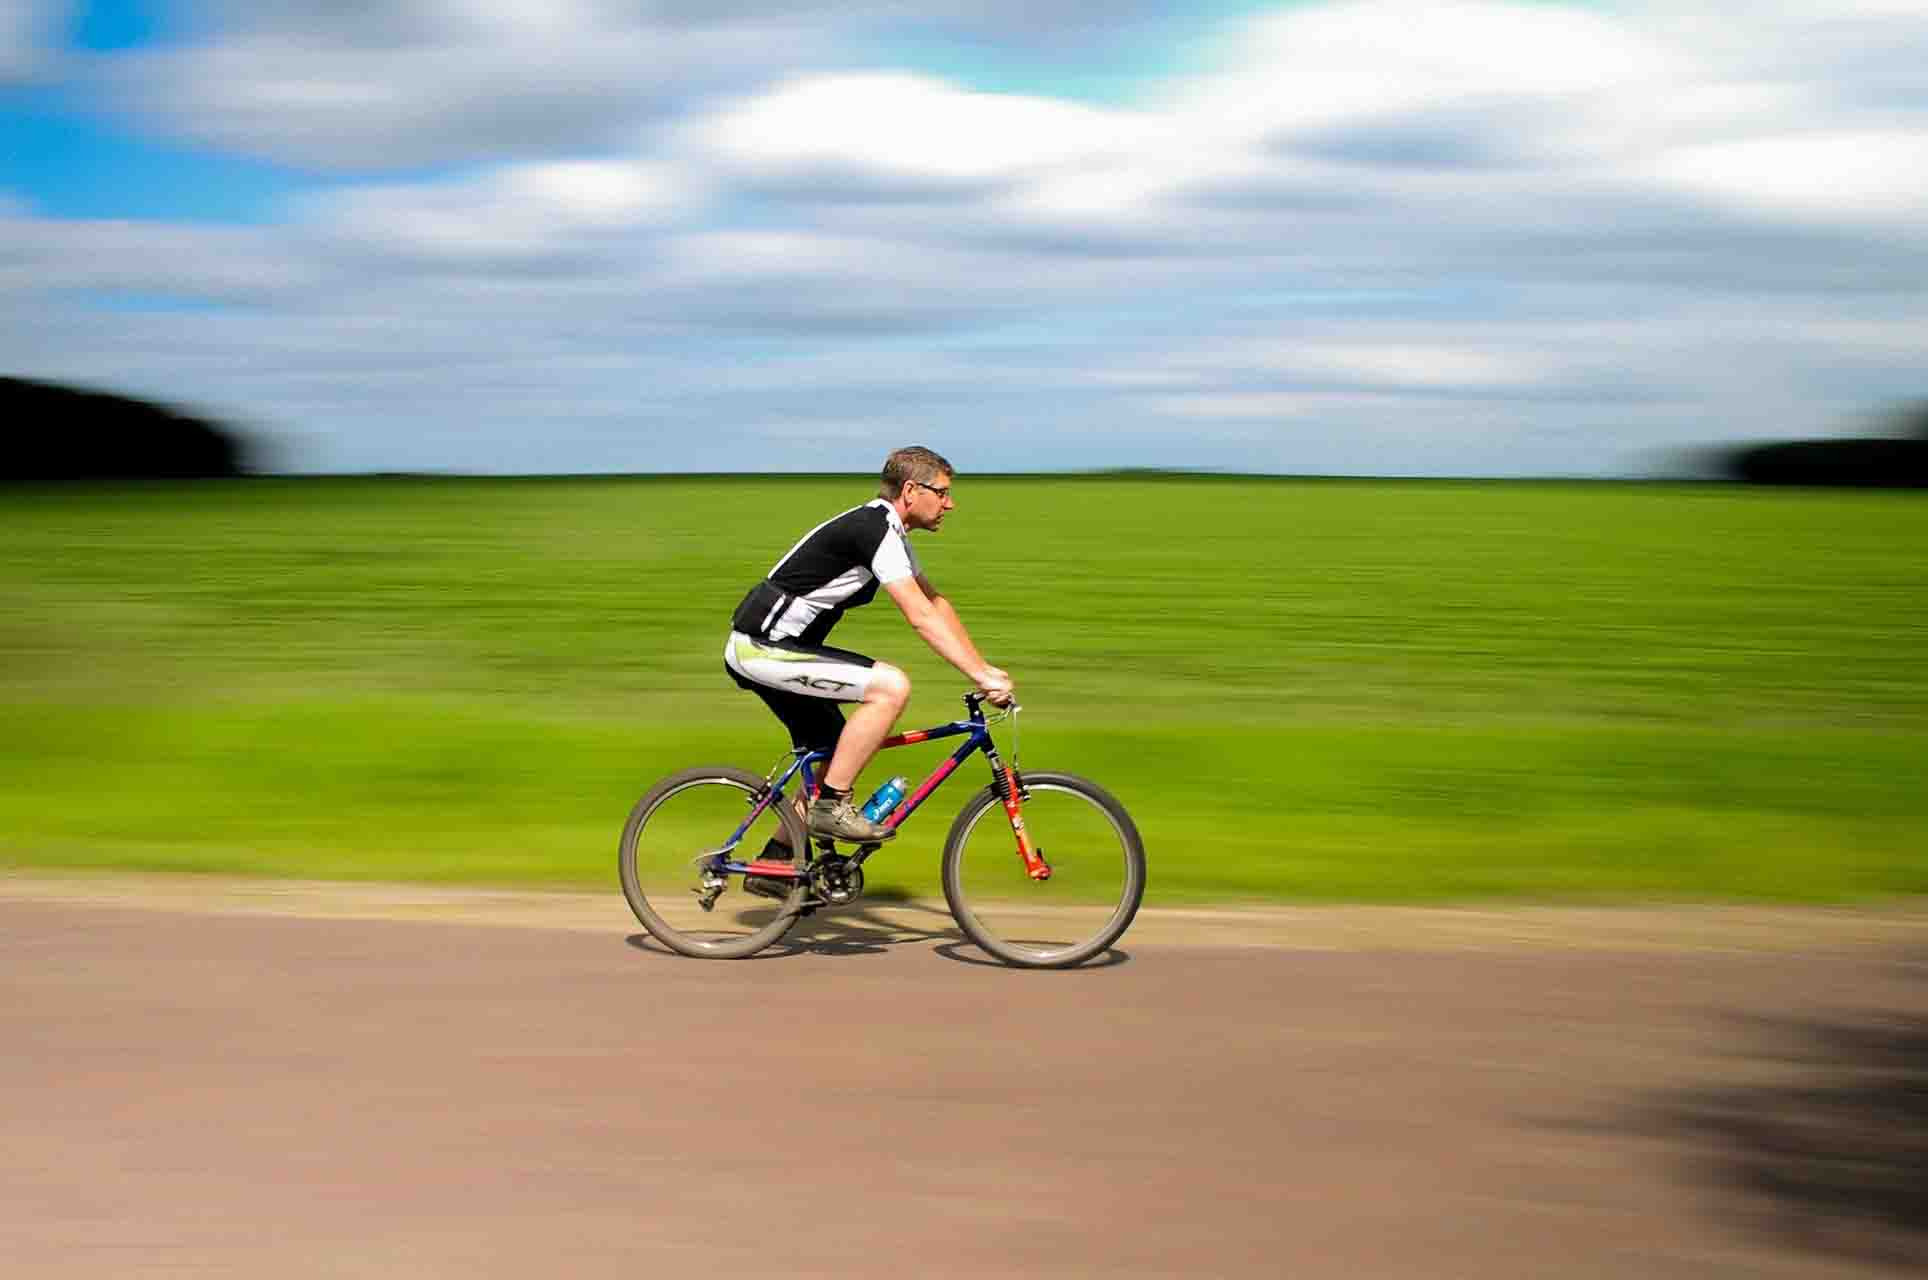
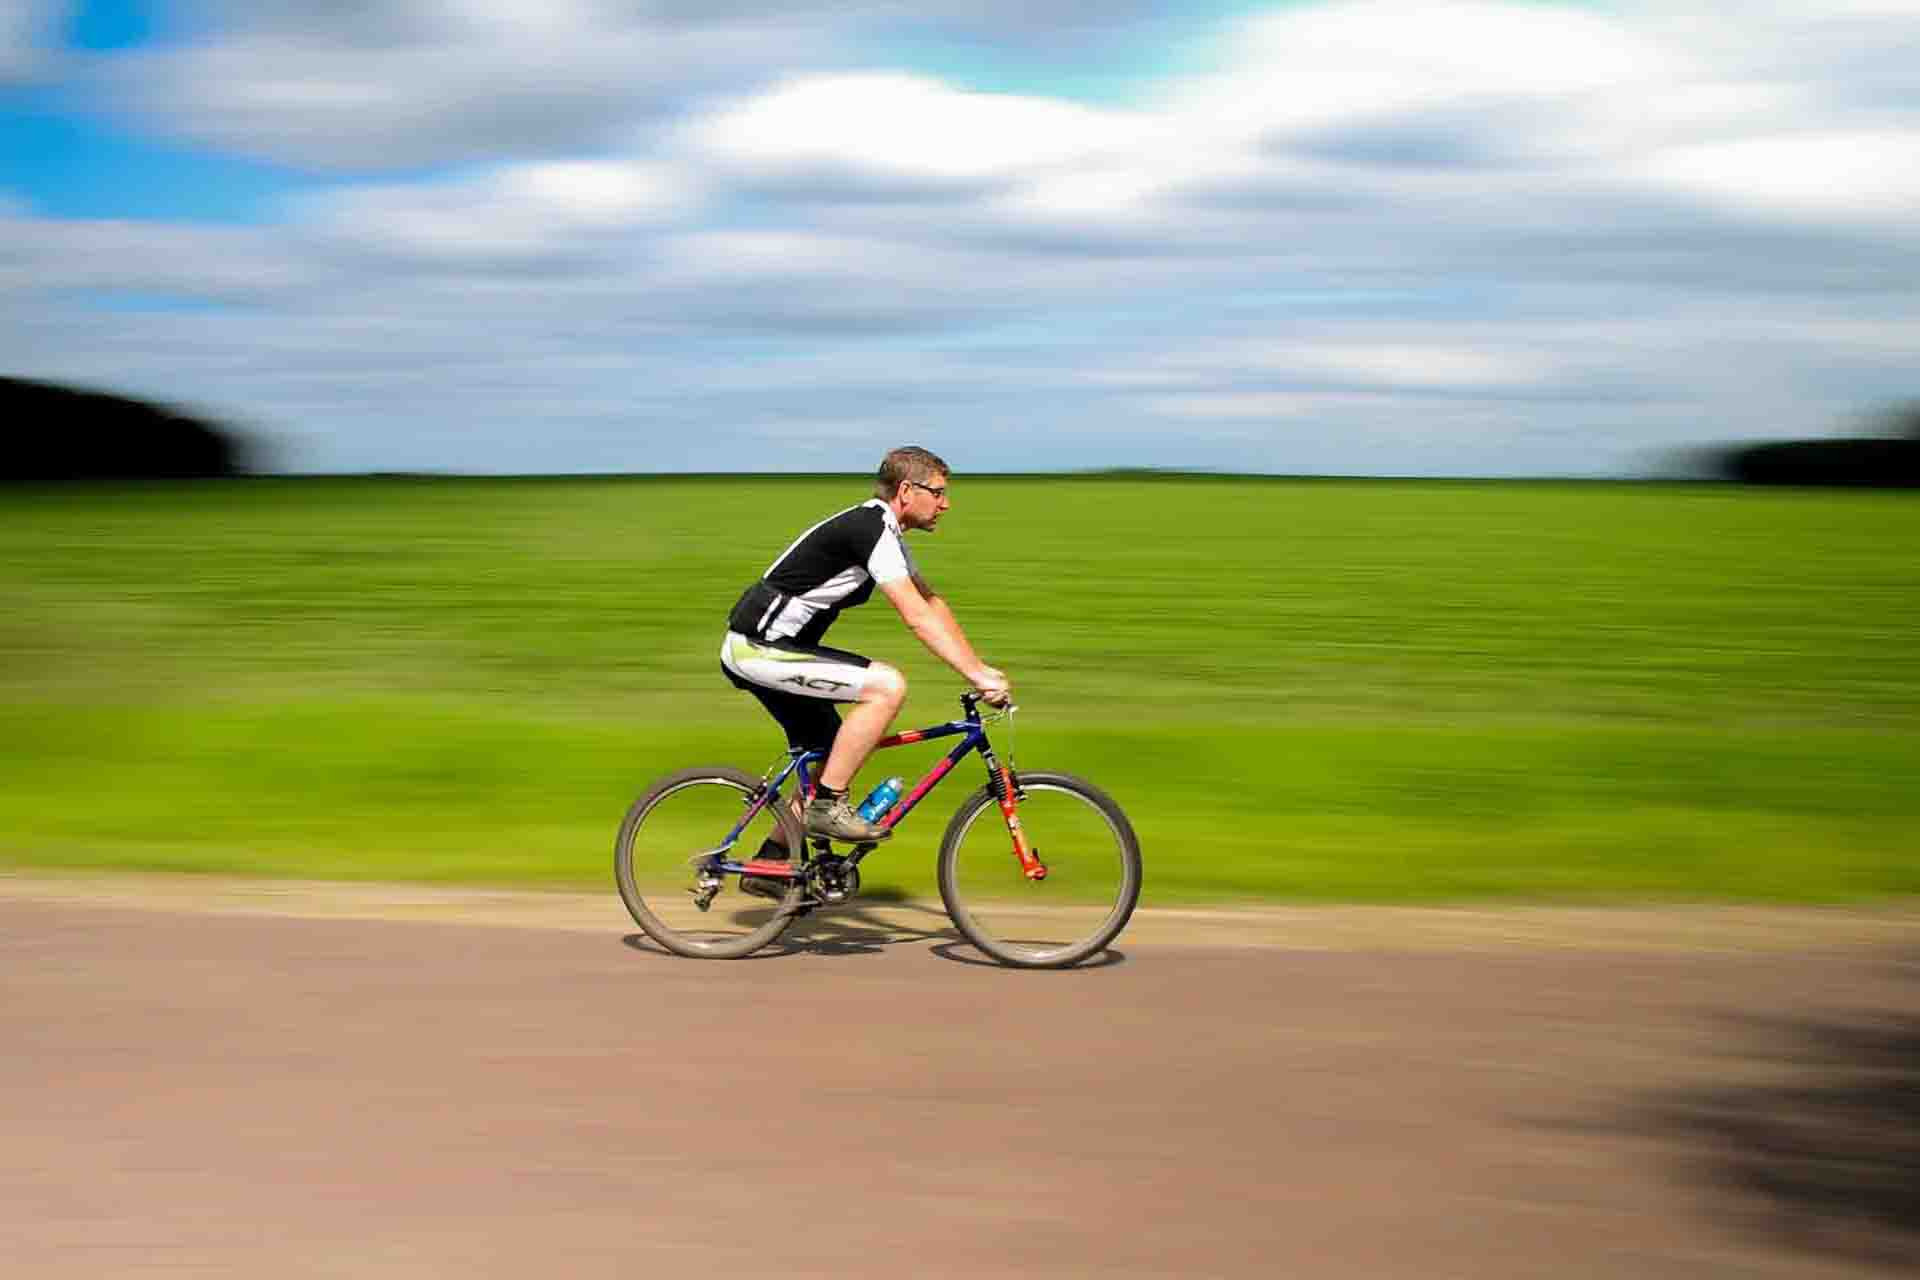
Resize jpeg images

diff --git a/assets/js/routes.js b/assets/js/routes.js
@@ -302,74 +302,23 @@ $(document).ready(function () {
     }
 });
 
-function presetRoutes() {
-    // Create waypoints variable array and loop and push to route request
-    var waypts = [];
-    var waypointElmts = document.getElementsByName('waypoints[]');
-    for (var i = 0; i < waypointElmts.length; i++) {
-        if (waypointElmts[i].value.length > 0) {
-            waypts.push({
-                location: waypointElmts[i].value,
-                stopover: true
-            });
-        }
-    }
-    var prioryMarinaSandy = {
-        origin: {
-            lat: 52.1472,
-            lng: -0.4649
-        },
-        destination: {
-            lat: 52.1588,
-            lng: -0.3914
-        },
-        travelMode: google.maps.TravelMode.BICYCLING,
-        unitSystem: google.maps.UnitSystem.IMPERIAL
-    };
-    var prioryMarinaSandy = {
-        origin: {
-            lat: 52.1472,
-            lng: -0.4649
-        },
-        destination: {
-            lat: 52.1588,
-            lng: -0.3914
-        },
-        travelMode: google.maps.TravelMode.BICYCLING,
-        unitSystem: google.maps.UnitSystem.IMPERIAL
-    }; var prioryMarinaSandy = {
-        origin: {
-            lat: 52.1472,
-            lng: -0.4649
-        },
-        destination: {
-            lat: 52.1588,
-            lng: -0.3914
-        },
-        travelMode: google.maps.TravelMode.BICYCLING,
-        unitSystem: google.maps.UnitSystem.IMPERIAL
-    }
-    // Create route request
+// Recommended routes
+//Functions for recommended routes
+function prioryMarinaSandy() {
+    // Create a route request
     var request = {
-        origin: document.getElementById('start').value,
-        destination: document.getElementById('end').value,
+        origin: {
+            lat: 52.131972,
+            lng: -0.434981
+        },
+        destination: {
+            lat: 52.1281,
+            lng: -0.2868
+        },
         travelMode: google.maps.TravelMode.BICYCLING,
-        unitSystem: google.maps.UnitSystem.IMPERIAL,
-        waypoints: waypts,
-        // Calculate route in specified order
-        optimizeWaypoints: false,
-    };
-    document.getElementByClassName('preset-route-buttons').addEventListener('click', function (e) {
-        var target = e.target;
-        if (target.id === 'prioryMarinaSandy') {
-            request = prioryMarinaSandy;
-        } else if (target.id === 'blueLagoonFlitwick') {
-            request = blueLagoonFlitwick;
-        } else {
-            request = bedfordParkRenhold;
-        }
-    }, false);
-    // Pass request to route method
+        unitSystem: google.maps.UnitSystem.IMPERIAL
+    }
+    // Pass the request to the .route method
     directionsService.route(request, function (response, status) {
         if (status == google.maps.DirectionsStatus.OK) {
             directionsDisplay.setDirections(response);
@@ -381,10 +330,92 @@ function presetRoutes() {
             // Updates route summary panel when directions change
             directionsDisplay.addListener("directions_changed", () => {
                 computeTotalDistAndTime(directionsDisplay.getDirections());
+
+
             });
         } else {
             var routeSummary = document.querySelector('#route-summary');
-            routeSummary.innerHTML = '<div class="alert-danger"><i class="fas fa-exclamation-triangle"></i> Please enter a valid route!</div>';
+            routeSummary.innerHTML = '<div class="alert-danger"><i class="fas fa-exclamation-triangle"></i> Route unavailable!</div>';
+            // Clear map
+            directionsDisplay.setMap();
+            // Clear directions panel 
+            directionsDisplay.setPanel();
+        }
+    });
+}
+
+function blueLagoonFlitwick() {
+    // Create a route request
+    var request = {
+        origin: {
+            lat: 51.9941,
+            lng: -0.2580
+        },
+        destination: {
+            lat: 52.0046,
+            lng: -0.4979
+        },
+        travelMode: google.maps.TravelMode.BICYCLING,
+        unitSystem: google.maps.UnitSystem.IMPERIAL
+    }
+    // Pass the request to the .route method
+    directionsService.route(request, function (response, status) {
+        if (status == google.maps.DirectionsStatus.OK) {
+            directionsDisplay.setDirections(response);
+            computeTotalDistAndTime(response);
+            // Display directions on map
+            directionsDisplay.setMap(map);
+            //Display directions panel
+            directionsDisplay.setPanel(document.getElementById("directions-panel"));
+            // Updates route summary panel when directions change
+            directionsDisplay.addListener("directions_changed", () => {
+                computeTotalDistAndTime(directionsDisplay.getDirections());
+
+
+            });
+        } else {
+            var routeSummary = document.querySelector('#route-summary');
+            routeSummary.innerHTML = '<div class="alert-danger"><i class="fas fa-exclamation-triangle"></i> Route unavailable!</div>';
+            // Clear map
+            directionsDisplay.setMap();
+            // Clear directions panel 
+            directionsDisplay.setPanel();
+        }
+    });
+}
+
+function bedfordParkRenhold() {
+    // Create a route request
+    var request = {
+        origin: {
+            lat: 52.1472,
+            lng: -0.4649
+        },
+        destination: {
+            lat: 52.1588,
+            lng: -0.3914
+        },
+        travelMode: google.maps.TravelMode.BICYCLING,
+        unitSystem: google.maps.UnitSystem.IMPERIAL
+    }
+    // Pass the request to the .route method
+    directionsService.route(request, function (response, status) {
+        if (status == google.maps.DirectionsStatus.OK) {
+            directionsDisplay.setDirections(response);
+            computeTotalDistAndTime(response);
+            // Display directions on map
+            directionsDisplay.setMap(map);
+            //Display directions panel
+            directionsDisplay.setPanel(document.getElementById("directions-panel"));
+            // Updates route summary panel when directions change
+            directionsDisplay.addListener("directions_changed", () => {
+                computeTotalDistAndTime(directionsDisplay.getDirections());
+
+
+            });
+        } else {
+            var routeSummary = document.querySelector('#route-summary');
+            routeSummary.innerHTML = '<div class="alert-danger"><i class="fas fa-exclamation-triangle"></i> Route unavailable!</div>';
             // Clear map
             directionsDisplay.setMap();
             // Clear directions panel 

diff --git a/index.html b/index.html
@@ -81,7 +81,7 @@
     <!-- Easy Riders Card -->
     <div class="container-fluid">
         <div class="row text-center">
-            <div class="col-4 d-flex align-items-stretch">
+            <div class="col-md-4 d-flex align-items-stretch">
                 <div class="card" id="easy-riders-card">
                     <img src="assets/img/cards/bike-path.jpg" class="card-img-top" alt="bike-path">
                     <div class="card-body">
@@ -92,7 +92,7 @@
                 </div>
             </div>
             <!-- Middle of the Road Card -->
-            <div class="col-4 d-flex align-items-stretch">
+            <div class="col-md-4 d-flex align-items-stretch">
                 <div class="card" id="in-the-middle-card">
                     <img src="assets/img/cards/road.jpg" class="card-img-top" alt="road">
                     <div class="card-body">
@@ -105,7 +105,7 @@
                 </div>
             </div>
             <!-- Pedal Pushers Card -->
-            <div class="col-4 d-flex align-items-stretch">
+            <div class="col-md-4 d-flex align-items-stretch">
                 <div class="card" id="pedal-pushers-card">
                     <img src="assets/img/cards/quick-cyclist.jpg" class="card-img-top" alt="quick-cyclist">
                     <div class="card-body">
@@ -119,7 +119,6 @@
     </div>
 </section>
 <hr class="page-break">
-
 <h3 class="heading" id="events">Events</h3>
 <p id="page-text">Upcoming club events:<br><br></p>
 <div class="container-fluid ">

diff --git a/routes.html b/routes.html
@@ -48,16 +48,15 @@
     <div class="container-fluid" id="content">
         <hr class="page-break">
         <h1 class="heading">Plan a Ride</h1>
-        <p id="page-text">See some of the routes we use</a> or create your own
+        <p id="page-text">See some of the routes we use in our groups</a> or create your own
             with the <a href="#googleMap" class="page-links">route planner</a> below.</p>
         <h2 class="heading">Selected Club Routes:</h2>
         <div class="col-xs-offset-2 col-xs-10 text-center">
             <a href="#preset-routes">
-                <button class="btn btn-info btn-sm preset-route-button" id="prioryMarinaSandy"
-                    onclick="clubRoutes();">Priory Marina to
+                <button class="btn btn-info btn-sm preset-route-button" onclick="prioryMarinaSandy();">Priory Marina to
                     Sandy <i class="fas fa-map-signs"></i></button></a>
             <a href="#preset-routes">
-                <button class="btn btn-info btn-sm preset-route-button" id="blueLagoonFlitwick">Blue Lagoon to
+                <button class="btn btn-info btn-sm preset-route-button" onclick="blueLagoonFlitwick();">Blue Lagoon to
                     Flitwick
                     <i class="fas fa-map-signs"></i></button></a>
             <a href="#preset-routes">

diff --git a/assets/css/style.css b/assets/css/style.css
@@ -406,13 +406,10 @@ p.footer-text {
   font-size: 0.8em;
 }
 
-img.d-block.w-100.carousel-image {
-    -webkit-box-shadow: rgba(14, 30, 37, 0.12) 0 2px 4px 0,
-    rgba(14, 30, 37, 0.32) 0 2px 16px 0;
-  -moz-box-shadow: rgba(14, 30, 37, 0.12) 0 2px 4px 0,
-    rgba(14, 30, 37, 0.32) 0 2px 16px 0;
-  box-shadow: #0e1e251f 0 2px 4px 0, rgba(14, 30, 37, 0.32) 0 2px 16px 0;
+.d-block.w-100.carousel-image {
+    opacity: 0.9;
 }
+
 .carousel-caption {
   position: absolute;
   background-color: rgba(238, 232, 170, 0.9);
@@ -420,6 +417,7 @@ img.d-block.w-100.carousel-image {
   z-index: 20;
   bottom: 36px;
   border: 1px solid black;
+  opacity: 0.8;
   border-radius: 4px;
   padding: 4px;
   max-width: fit-content;
@@ -567,6 +565,18 @@ img.d-block.w-100.carousel-image {
   #googleMap {
     max-width: 744px;
   }
+}
+
+@media screen and (max-width: 300px) {
+
+.carousel-heading {
+font-size: 0.8em;
+  
+}
+
+.carousel-text {
+  font-size: 0.6em;
+}
 }
 
 
